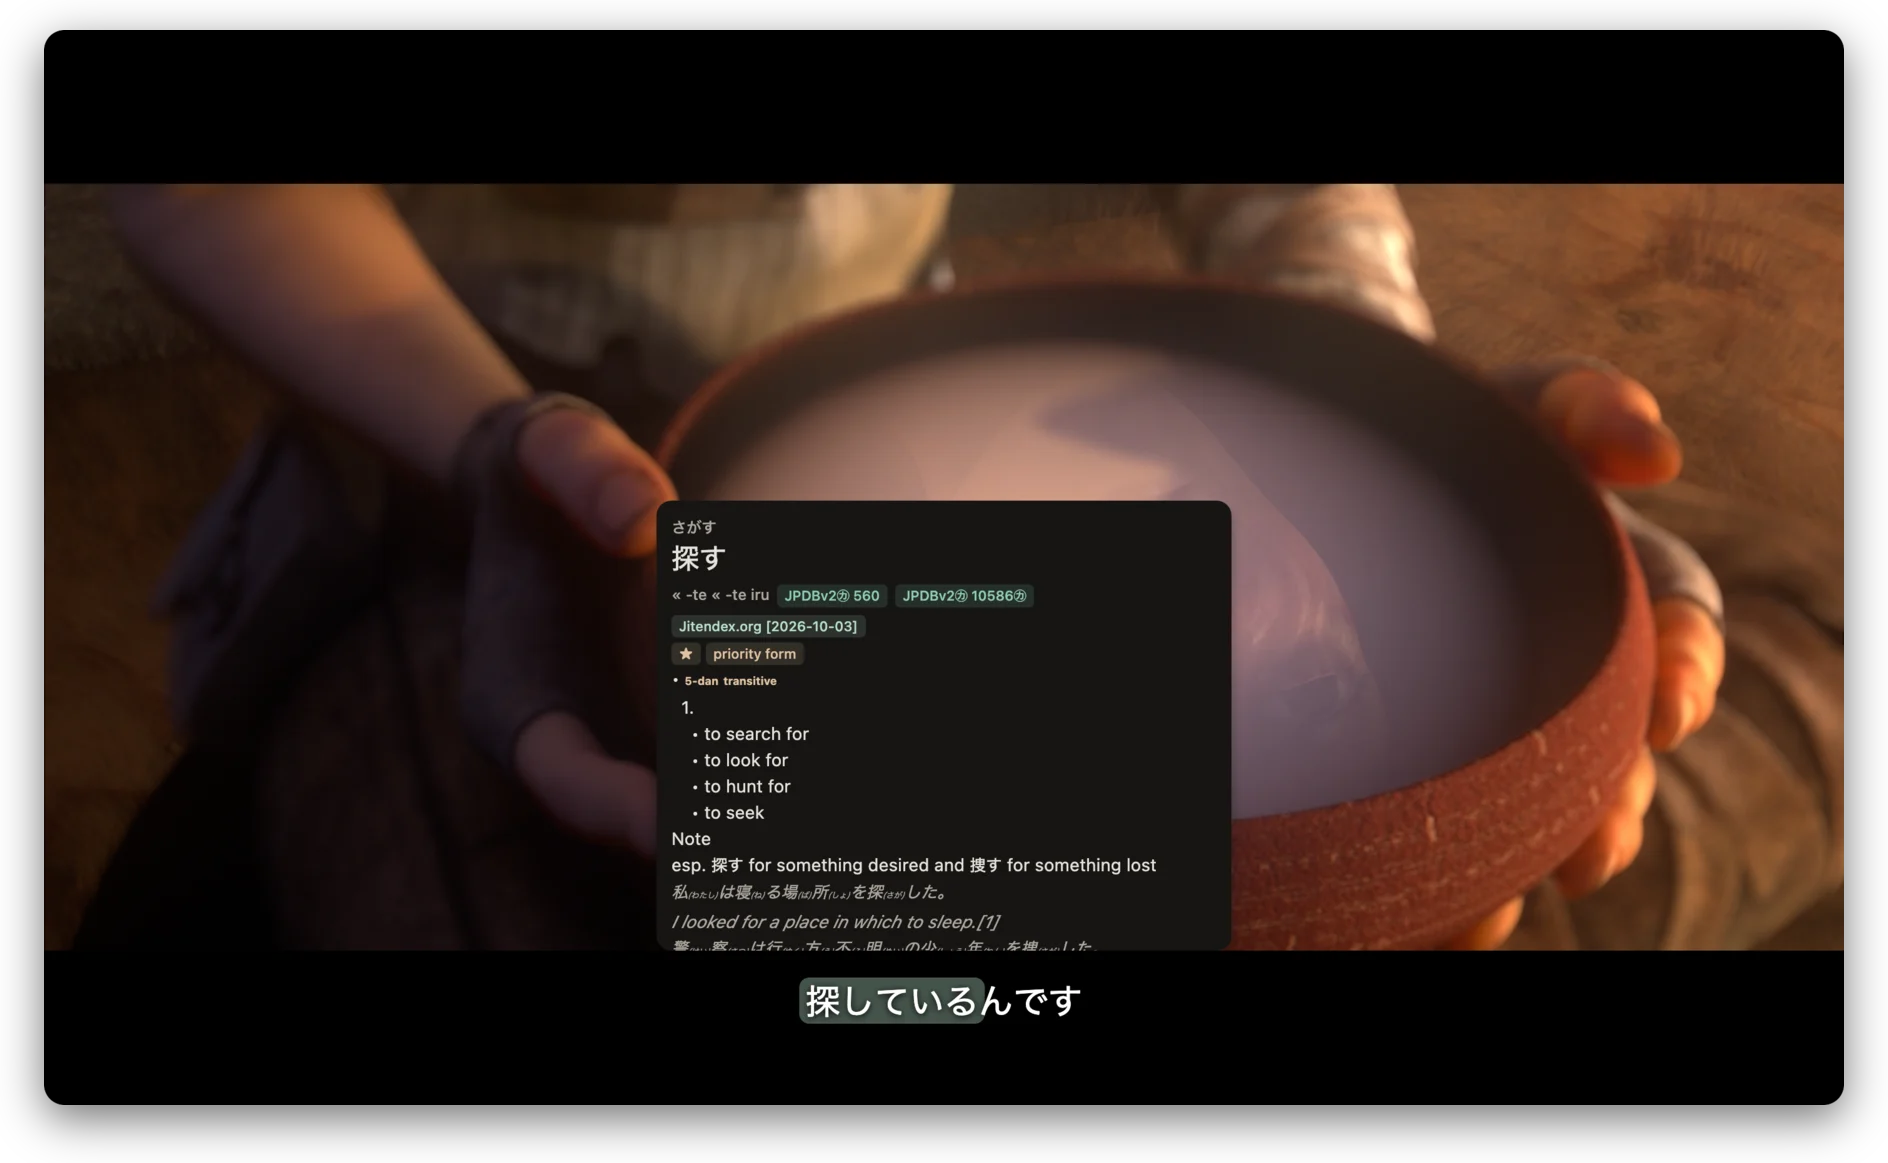
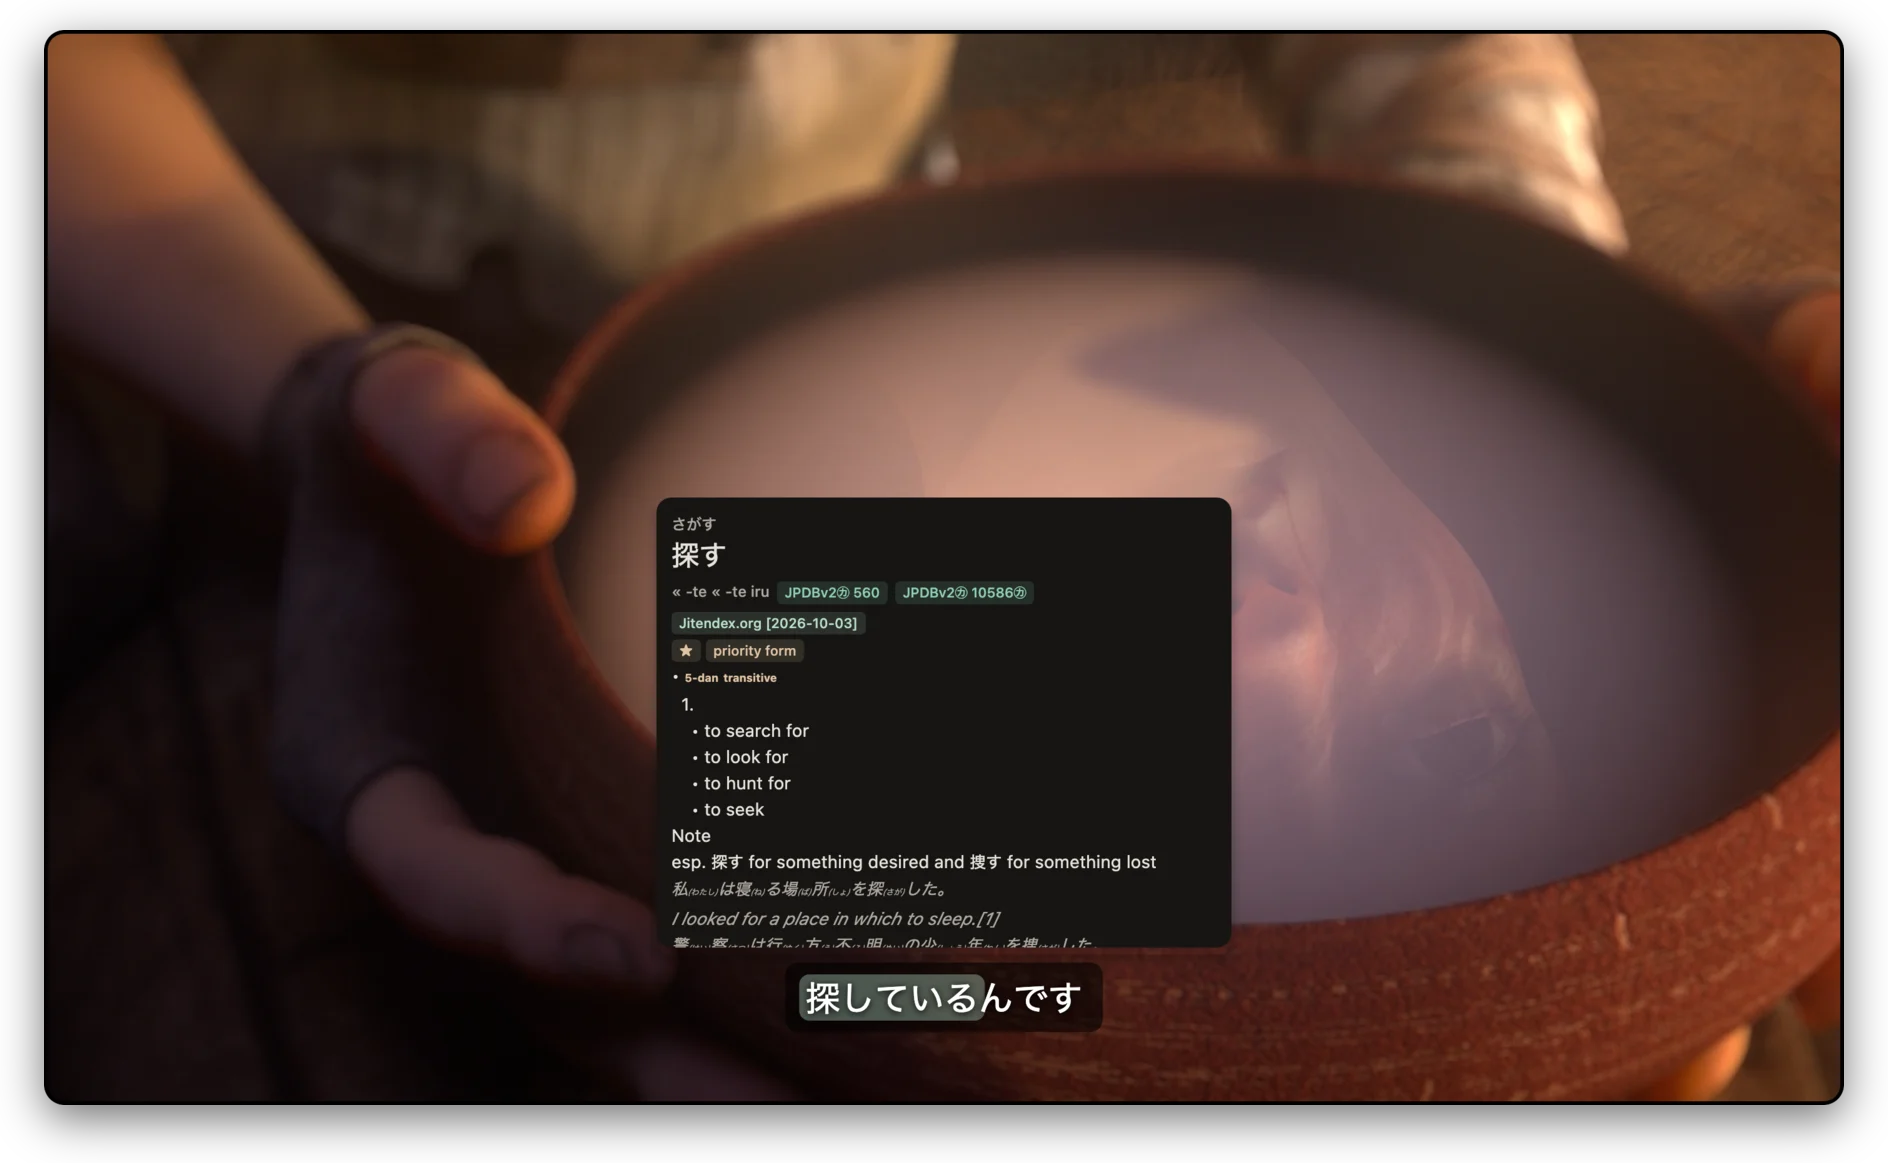
README screenshots with the picture filling its area
Sintel is wide enough that, fitted, the player shots were mostly black bars; they're now taken
with pan & scan on. The framing that puts the README's shots in a window (rounded corners, traffic
lights, shadow) is kept as scripts/frame-screenshots.py, and the Settings shot that went in
without it for 1.0 is framed again.

diff --git a/desktop/src/test/kotlin/app/mizune/desktop/ReadmeScreenshots.kt b/desktop/src/test/kotlin/app/mizune/desktop/ReadmeScreenshots.kt
@@ -130,6 +130,8 @@ class ReadmeScreenshots {
                         }
                     }
                 }
+                // the picture filling its area (pan & scan), so a wide film isn't mostly black bars
+                app.settings.updateVideoFill(true)
                 // the line and its first word, looked up on its own
                 waitUntil(timeoutMillis = 20_000) { session.primary.value?.cues.orEmpty().isNotEmpty() }
                 val alone = session.primary.value!!.cues.indexOfFirst { it.text.startsWith("私は物心") }
@@ -158,6 +160,7 @@ class ReadmeScreenshots {
                 waitForIdle()
                 shot("over-video")
                 app.settings.updatePanelHidden(false)
+                app.settings.updateVideoFill(false)
             }
         } finally {
             session.close()

diff --git a/scripts/frame-screenshots.py b/scripts/frame-screenshots.py
@@ -1,0 +1,65 @@
+#!/usr/bin/env python3
+"""frame-screenshots.py <shots> <docs/screenshots> [name ...]
+
+Puts the README's screenshots (ReadmeScreenshots, in <shots>) in a window: rounded corners, the
+traffic lights where the app has a header, and a soft shadow, 1800 px wide. The video ones become
+WebP, the rest PNG. With names, only those; otherwise all five. Needs ImageMagick and cwebp
+(brew install imagemagick webp).
+"""
+import os
+import subprocess
+import sys
+import tempfile
+
+# name: (traffic lights, format)
+SHOTS = {
+    "player": (True, "webp"),
+    "over-video": (False, "webp"),
+    "library": (True, "png"),
+    "welcome": (True, "png"),
+    "themes": (True, "png"),
+}
+
+
+def run(*args):
+    subprocess.run(list(args), check=True)
+
+
+def size(path):
+    out = subprocess.run(["magick", "identify", "-format", "%w %h", path], capture_output=True, text=True, check=True).stdout
+    w, h = out.split()
+    return int(w), int(h)
+
+
+def frame(src_dir, out_dir, tmp_dir, name):
+    lights, fmt = SHOTS[name]
+    src = os.path.join(src_dir, name + ".png")
+    tmp = os.path.join(tmp_dir, name + ".png")
+    w, h = size(src)
+    draw = []
+    if lights:
+        for x, colour in ((40, "#FF5F57"), (80, "#FEBC2E"), (120, "#28C840")):
+            draw += ["-fill", colour, "-draw", f"circle {x},40 {x + 14},40"]
+    run(
+        "magick", src, *draw,
+        "(", "-size", f"{w}x{h}", "xc:black", "-fill", "white", "-draw", f"roundrectangle 0,0,{w - 1},{h - 1},32,32", ")",
+        "-alpha", "off", "-compose", "CopyOpacity", "-composite", "-compose", "Over",
+        "-resize", "1800x",
+        "(", "+clone", "-background", "#00000060", "-shadow", "55x22+0+14", ")", "+swap",
+        "-background", "none", "-layers", "merge", "+repage", tmp,
+    )
+    if fmt == "webp":
+        run("cwebp", "-quiet", "-q", "86", "-alpha_q", "100", tmp, "-o", os.path.join(out_dir, name + ".webp"))
+    else:
+        run("magick", tmp, "-define", "png:compression-level=9", os.path.join(out_dir, name + ".png"))
+
+
+def main():
+    src_dir, out_dir, *names = sys.argv[1:]
+    with tempfile.TemporaryDirectory() as tmp_dir:
+        for name in names or SHOTS:
+            frame(src_dir, out_dir, tmp_dir, name)
+
+
+if __name__ == "__main__":
+    main()
